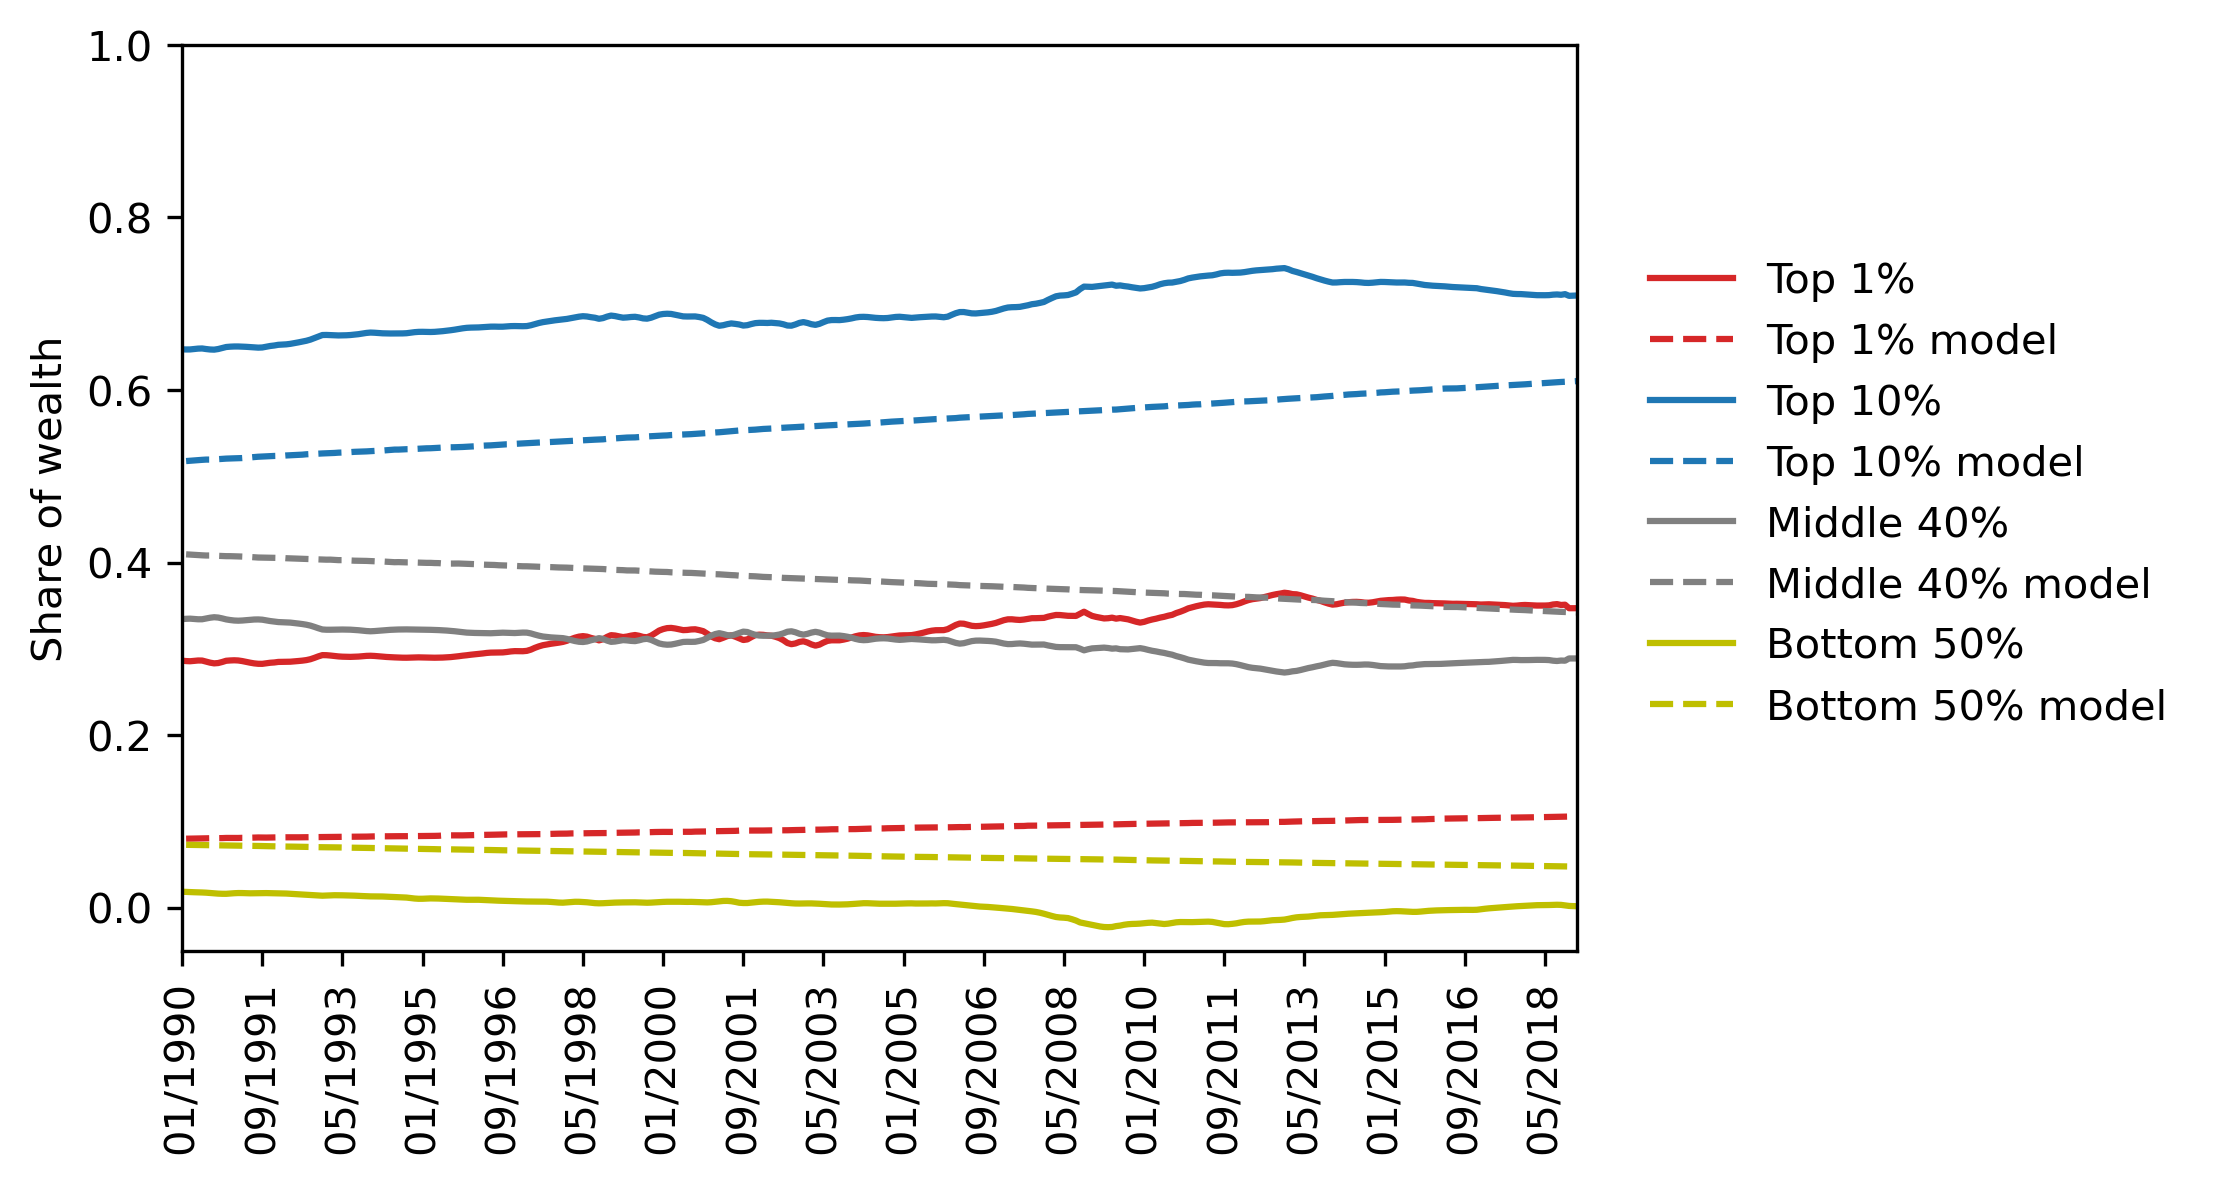
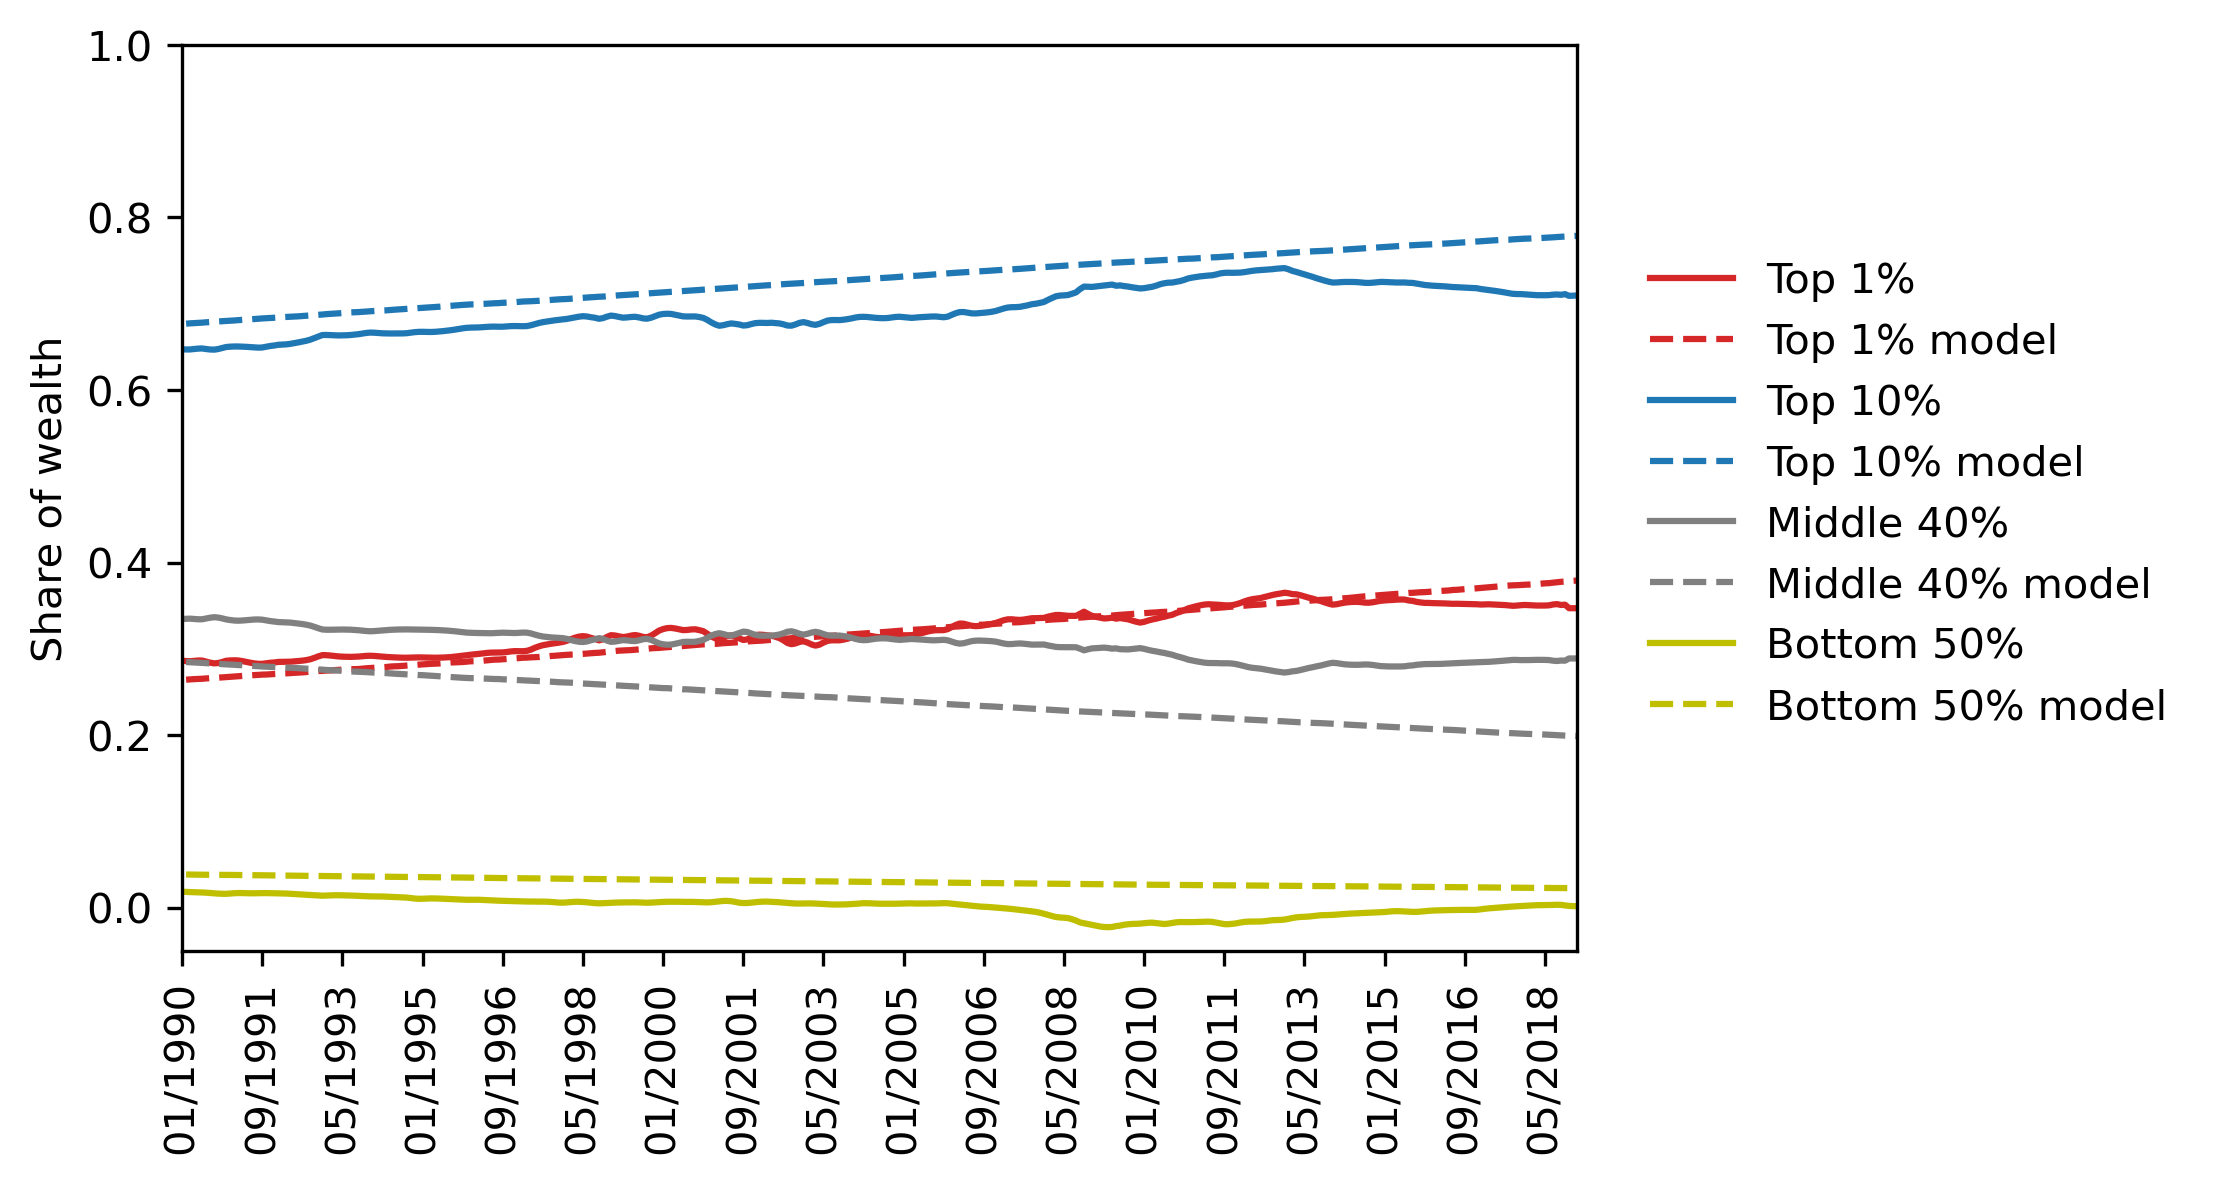
updates to plotting functions and running the enkf

diff --git a/enkf_yo.py b/enkf_yo.py
@@ -159,7 +159,7 @@ class EnsembleKalmanFilter:
     def state_update(self):
         """
         Update system state of model. This is the state update equation of the 
-        Kalman Filter. Here the deceive step then is that the difference is 
+        Kalman Filter. Here the decisive step then is that the difference is 
         calculated between self.data_ensemble (4-dimensional) and self.micro_state_ensemble
         (n-dimensional) so there the observation matrix H
         does a translation between micro and macro state. And 
@@ -185,30 +185,43 @@ class EnsembleKalmanFilter:
          #   self.models[i].state = self.state_ensemble[:, i]
         pass ### will be filled later
 
-    def plot_macro_state(self):
+    def plot_macro_state(self, log_var: str):
         
+        if not isinstance(log_var, str):
+            raise TypeError
         
         ####################################
-        ### plot system macro-state estimate
+        ### prepare system macro-state estimate
         ####################################
-        x = np.log(self.macro_state_ensemble[0,:])
-        y = np.log(self.macro_state_ensemble[3,:])
+        if log_var == "yes":
+            x = np.log(self.macro_state_ensemble[0,:])
+            y = np.log(self.macro_state_ensemble[3,:])
+            # Set up grid points for plotting later fed into meshgrid
+            x_grid = np.linspace(min(x)*0.9, max(x)*1.1, 100)
+            y_grid = np.linspace(min(y)*0.9, max(y)*1.1, 100)
+        elif log_var == "no":
+            x = self.macro_state_ensemble[0,:]
+            y = self.macro_state_ensemble[3,:]
+            x_grid = np.linspace(0, max(x)*1.1, 100)
+            y_grid = np.linspace(0, max(y)*1.1, 100)
         x_mean = np.mean(x)
         y_mean = np.mean(y)
         x_hat = np.matrix([x_mean, y_mean]).T
         C = np.cov(x,y)
         # Set up grid for plotting
-        x_grid = np.linspace(min(x)*0.9, max(x)*1.1, 100)
-        y_grid = np.linspace(min(y)*0.9, max(y)*1.1, 100)
         X, Y = np.meshgrid(x_grid, y_grid)
         varname1 = "ln($ Wealth per adult Top 1%)"
         varname2 = "ln($ Weatlh per adult Bottom 50%)"
         
         ##########################################
-        ### plot observation also on the same plot
+        ### prepare observation also on the same plot
         ##########################################
-        x2 = np.log(self.data_ensemble[0,:])
-        y2 = np.log(self.data_ensemble[3,:])
+        if log_var == "yes":
+            x2 = np.log(self.data_ensemble[0,:])
+            y2 = np.log(self.data_ensemble[3,:])
+        elif log_var == "no": 
+            x2 = self.data_ensemble[0,:]
+            y2 = self.data_ensemble[3,:]
         x_mean2 = np.mean(x2)
         y_mean2 = np.mean(y2)
         x_hat2 = np.matrix([x_mean2, y_mean2]).T
@@ -218,27 +231,25 @@ class EnsembleKalmanFilter:
         X2, Y2 = np.meshgrid(x_grid2, y_grid2)
         varname1 = "ln($ Wealth per adult Top 1%)"
         varname2 = "ln($ Weatlh per adult Bottom 50%)"
-        
-        
-        
+        ###########################
+        ####### ACTUAL PLOT #######
+        ###########################
         fig, ax = plt.subplots(figsize=(10, 8))
         ax.grid()
-            
+
         #### SYSTEM ESTIMATE
         Z = gen_gaussian_plot_vals(x_hat, C, X, Y)
         ax.contourf(X, Y, Z, 6, alpha=0.6, cmap=cm.coolwarm)
         cs = ax.contour(X, Y, Z, 6, colors="black")
-        
         #### OBSERVATION 
-        
+        ### obs needs to be plotted on same grid for comparison, hence X and Y
         Z2 = gen_gaussian_plot_vals(x_hat2, C2, X2, Y2)
-        ax.contourf(X2, Y2, Z2, 6, alpha=0.6, cmap=cm.coolwarm)
-        cs2 = ax.contour(X2, Y2, Z2, 6, colors="black")
-        
-        
+        if log_var == "yes":
+            Z2[Z2<1.0e-02] = 0
+        cs2 = ax.contour(X, Y, Z2, 4, colors="black", linestyles = '--')
+        #ax.contourf(X, Y, Z2, 6, alpha=0.6)
         #Contour levels are a probability density
         ax.clabel(cs,levels = cs.levels, inline=1, fontsize=10)
-        
         ax.set_xlabel(varname1, fontsize = 14)
         ax.set_ylabel(varname2, fontsize = 14)
         ax.xaxis.set_tick_params(labelsize=12)
@@ -247,8 +258,6 @@ class EnsembleKalmanFilter:
         #ax.xaxis.set_major_formatter(LogFormatterSciNotation(base=10))
         #ax.yaxis.set_major_formatter(LogFormatterSciNotation(base=10))
         plt.show()
-
-        
             
     def plot_micro_state(self):
         
@@ -284,7 +293,11 @@ class EnsembleKalmanFilter:
         ax.legend(frameon = False)
         plt.show()
 
-    def step(self):
+    def step(self, update: str):
+        
+        if not isinstance(update, str):
+            raise TypeError
+            
         self.predict()
         self.set_current_obs()
         self.update_state_ensemble()
@@ -293,5 +306,7 @@ class EnsembleKalmanFilter:
         self.make_ensemble_covariance()
         self.make_data_covariance()
         self.make_gain_matrix()
-        #self.state_update()
+    
+        if update == "true": 
+            self.state_update()
 

diff --git a/run_economy.py b/run_economy.py
@@ -43,14 +43,22 @@ model_params = {"population_size": num_agents,
 enkf = EnsembleKalmanFilter(Economy, filter_params, model_params)
 print(enkf.micro_state_ensemble)
 print(enkf.macro_state_ensemble)
-enkf.step()
-enkf.plot_macro_state()
+time_horizon = 2*12 ## 29 years * 12 months
+for i in tqdm(range(time_horizon)):
+    ### set update to false or true
+    if i % 10 != 0 or i == 0: 
+        enkf.step(update = "false")
+        enkf.plot_macro_state(log_var = "no")
+    elif i % 10 == 0:
+        enkf.step(update = "true")
+        enkf.plot_macro_state(log_var = "no")
+    
+    
+    
+enkf.plot_macro_state(log_var = "no")
 enkf.plot_micro_state()
 print(enkf.micro_state_ensemble)
 print(enkf.macro_state_ensemble)
-
-
-enkf.macro_state_ensemble
 
 
 
